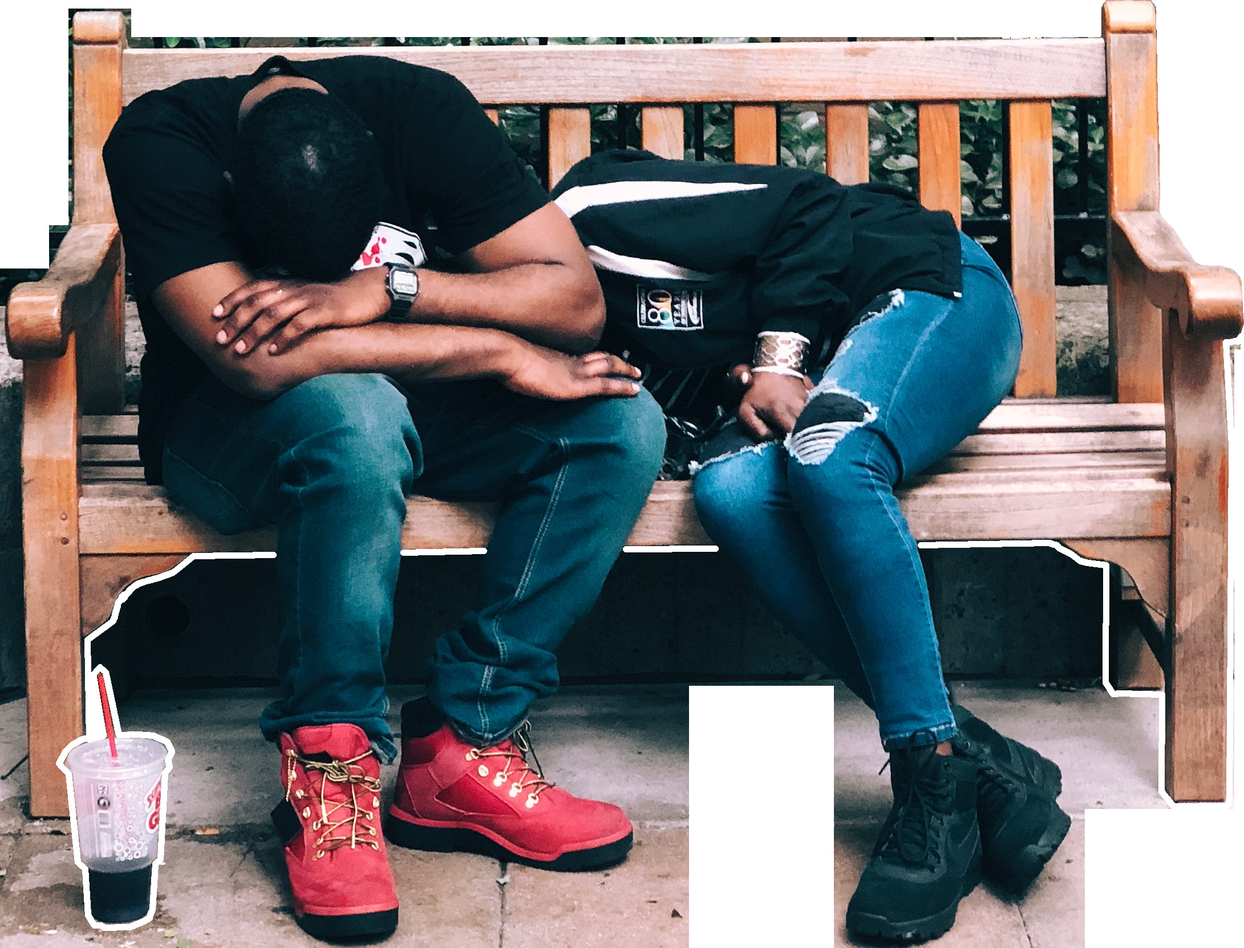
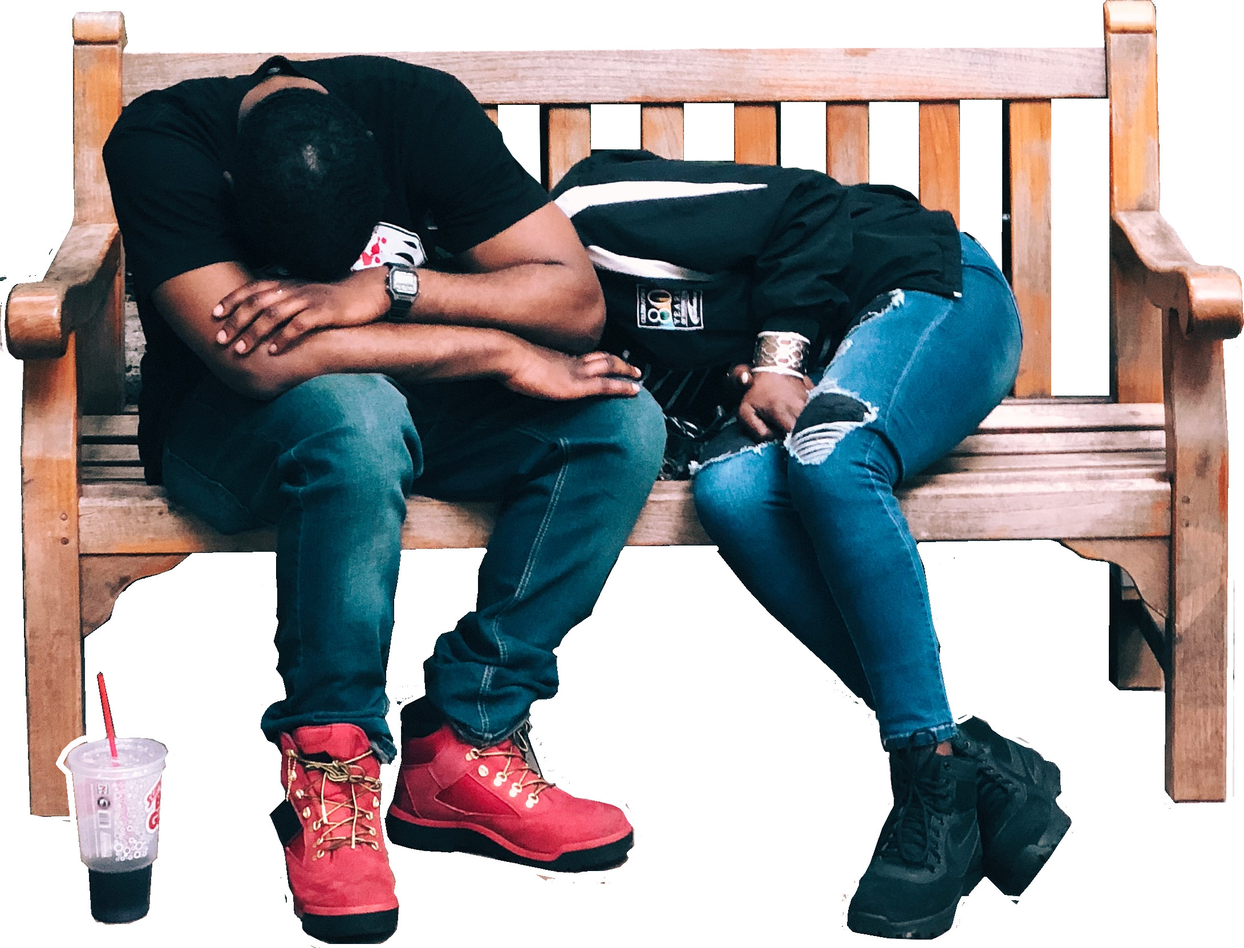
just edited the img on the main page

diff --git a/public/app.js b/public/app.js
@@ -22,11 +22,11 @@ mobileClick();
 //     }
 //     ev.target.previousElementSibling.checked = true;
 // }
-function radioButtons(){
-    //on clicking a radio button
-    $('label').click(function() {
-        //set that labels input to checked
-        console.log('got it');
-    })
-}
-radioButtons();
+// function radioButtons(){
+//     //on clicking a radio button
+//     $('label').click(function() {
+//         //set that labels input to checked
+//         console.log('got it');
+//     })
+// }
+// radioButtons();

diff --git a/public/styles/indexLayout.css b/public/styles/indexLayout.css
@@ -19,9 +19,9 @@ main {
     margin-top: 80px;
     /* border: 2px black solid; */
     height: 600px;
-    background-image: url(../images/bored.jpg);
+    background-image: url(../images/bored.png);
     background-size:480px;
-    background-color: rgb(212, 215, 233);
+    background-color: rgb(212, 217, 245);
     background-repeat: no-repeat;
     background-position: bottom;
     display: flex;
